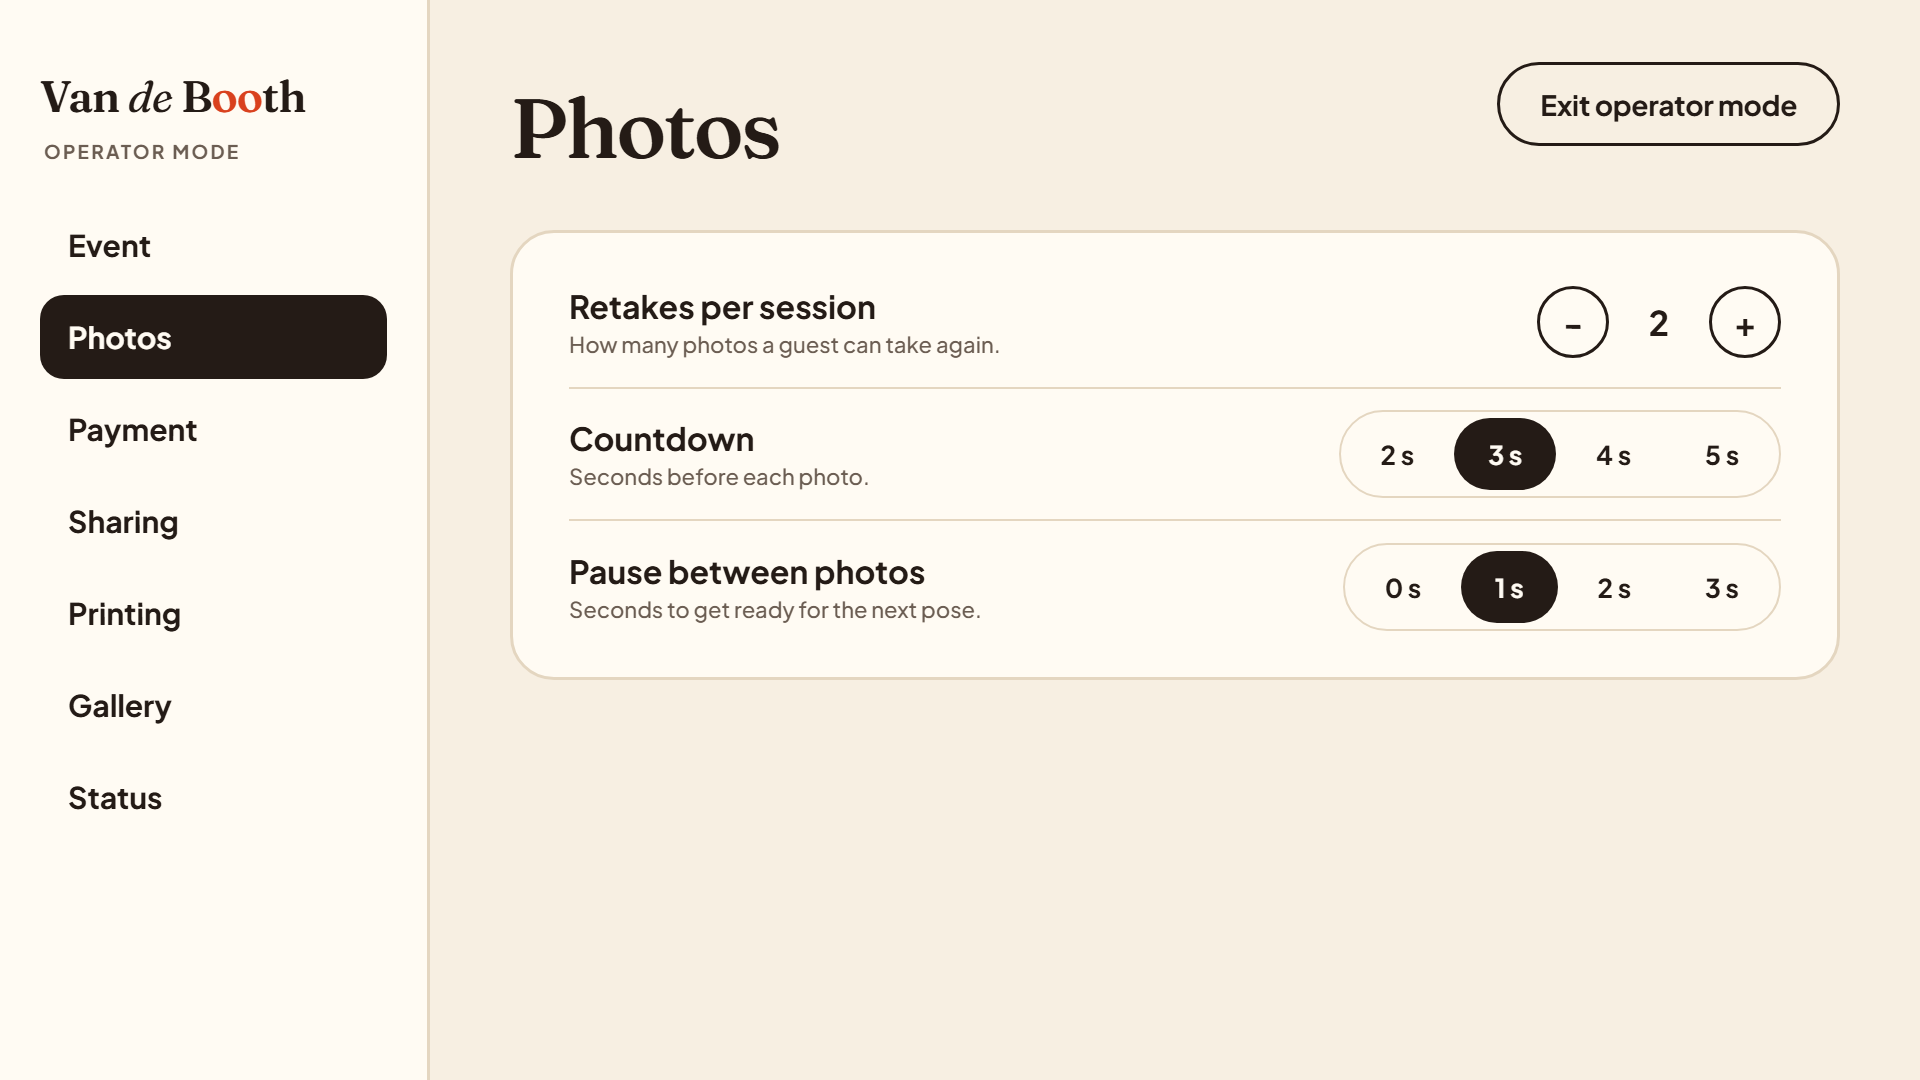
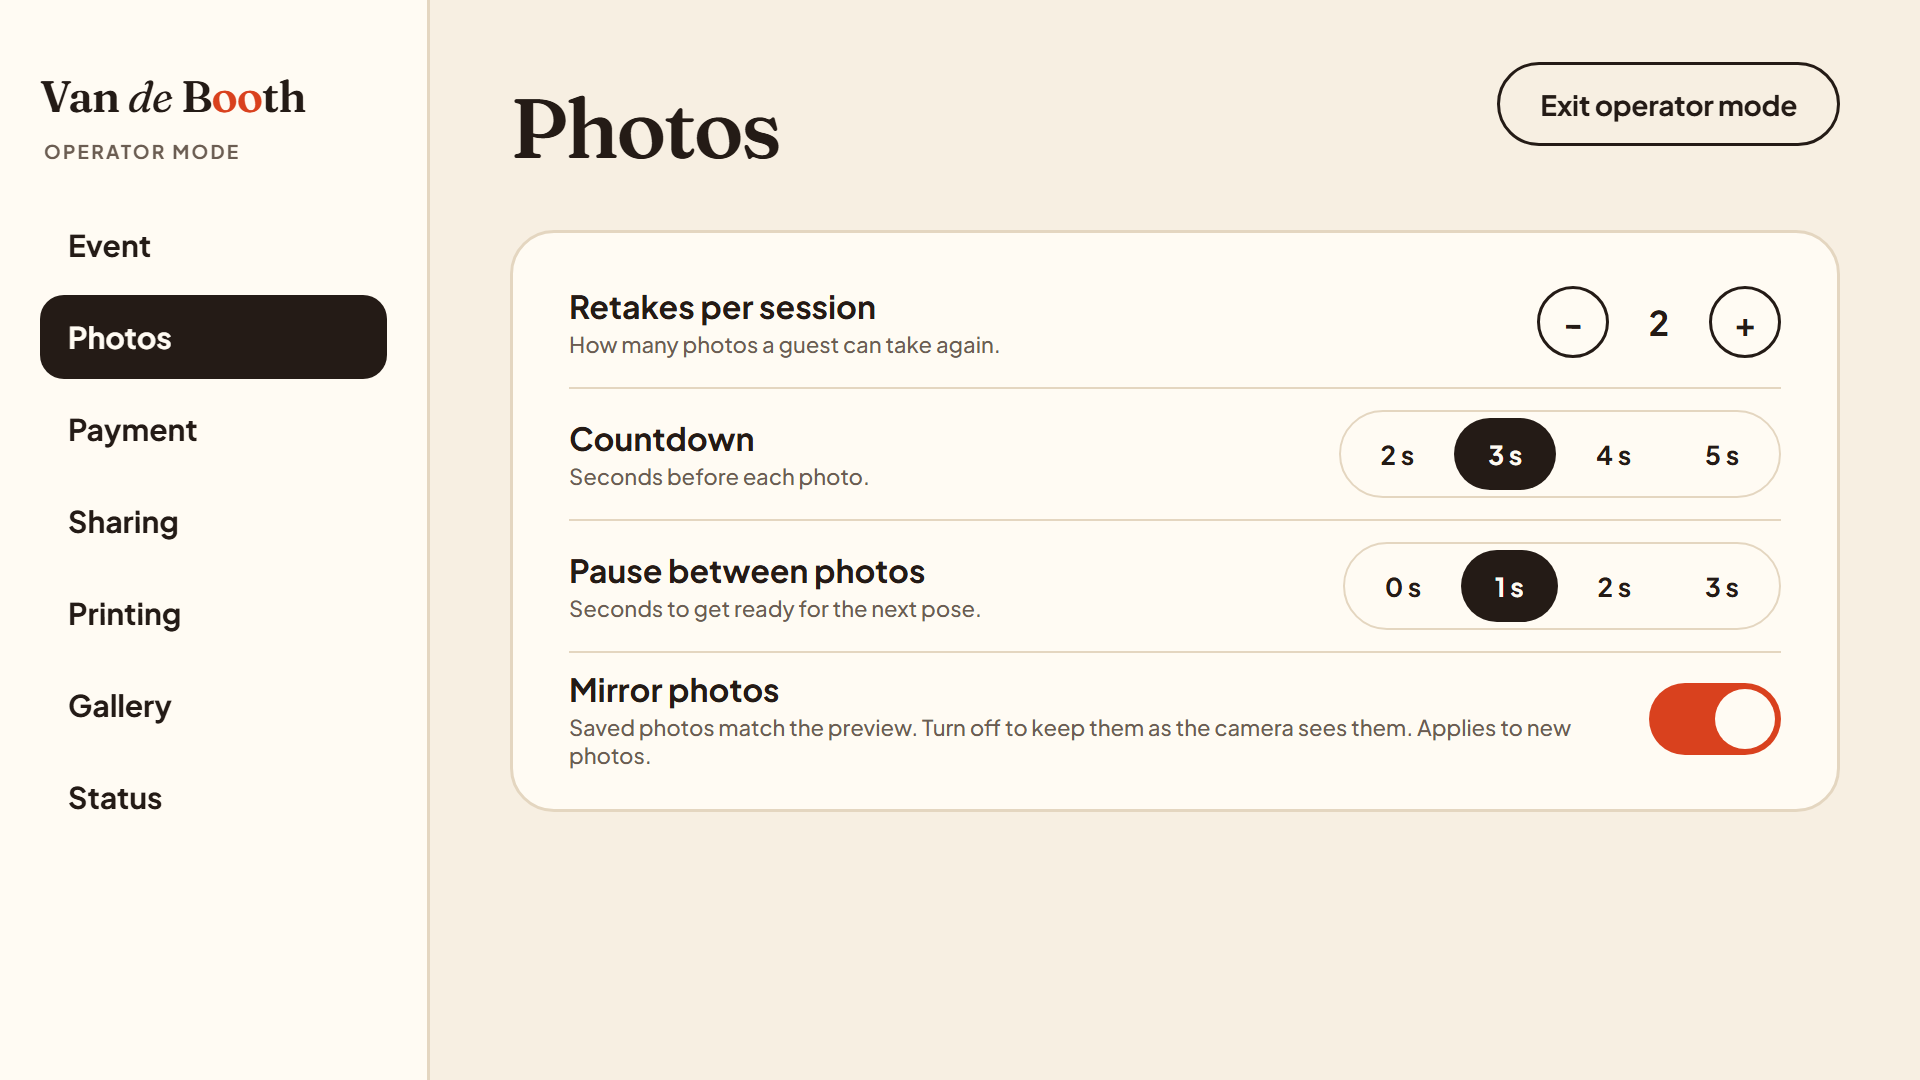
E2E: Mirror photos on/off menentukan arah foto baru; screenshot panel Photos

diff --git a/e2e/operator.spec.ts b/e2e/operator.spec.ts
@@ -1,7 +1,7 @@
 import { readFileSync } from 'node:fs';
 import { expect, test, type Page } from '@playwright/test';
 import { TEST_FEED } from './feed';
-import { expectScreen, injectEnv, settle, shot } from './helpers';
+import { expectScreen, injectEnv, settle, shot, waitForVideo } from './helpers';
 import { randomPin, startTestSidecar, type TestSidecar } from './sidecar';
 
 // Sidecar khusus dengan folder config baru: belum ada PIN (tidak ada PIN bawaan)
@@ -241,4 +241,82 @@ test('operator: "Layouts offered" membatasi kartu di Layout screen dan minimal s
   for (const id of ['vertical-3', 'horizontal-3', 'grid-4', 'grid-6']) await group.getByTestId(`offer-${id}`).click();
   await expect(group.locator('[aria-checked="true"]')).toHaveCount(6);
   await expect.poll(async () => (await (await api(page, 'GET', '/api/config')).json()).layoutsOffered.length).toBe(6);
+});
+
+/**
+ * Sisi matahari (putih krem) pada foto Review: dengan feed uji, preview dicermin menaruhnya di kiri,
+ * jadi foto yang dicermin juga di kiri, dan foto tanpa cermin di kanan.
+ */
+async function sunSide(page: Page): Promise<'left' | 'right'> {
+  return page.evaluate(async () => {
+    const img = document.querySelector('[data-testid="review-photo-1"] img') as HTMLImageElement;
+    await img.decode();
+    const bmp = { width: img.naturalWidth, height: img.naturalHeight };
+    const c = document.createElement('canvas');
+    c.width = bmp.width;
+    c.height = bmp.height;
+    const g = c.getContext('2d')!;
+    g.drawImage(img, 0, 0);
+    const bright = (fx: number) => g.getImageData(Math.round(bmp.width * fx), Math.round(bmp.height * 0.25), 1, 1).data[2];
+    return bright(0.13) > bright(0.87) ? 'left' : 'right';
+  });
+}
+
+/** Satu foto (Big Shot) lewat UI sungguhan, berhenti di Review. */
+async function shootBigShot(page: Page) {
+  await page.getByTestId('start').click();
+  await expectScreen(page, 'layout');
+  await page.getByTestId('layout-postcard-1').click();
+  await page.getByTestId('next').click();
+  await expectScreen(page, 'capture');
+  await waitForVideo(page);
+  await expectScreen(page, 'review');
+  await expect(page.locator('[data-testid="review-photo-1"] img')).toBeVisible();
+}
+
+async function toOperator(page: Page) {
+  await holdWordmark(page);
+  await typePin(page, PIN);
+  await expectScreen(page, 'operator');
+}
+
+test('operator: "Mirror photos" mengatur arah foto baru (preview tetap dicermin)', async ({ page }) => {
+  await injectEnv(page, sidecar);
+  await page.goto('/');
+  await expectScreen(page, 'attract');
+  await waitForVideo(page);
+
+  // Bawaan: aktif, foto sama dengan preview (matahari di kiri)
+  expect((await (await api(page, 'GET', '/api/config')).json()).mirrorPhotos).toBe(true);
+  await shootBigShot(page);
+  expect(await sunSide(page)).toBe('left');
+  await page.getByTestId('start-over').click();
+  await expectScreen(page, 'layout');
+  await page.keyboard.press('Escape');
+  await expectScreen(page, 'attract');
+
+  // Matikan: foto baru apa adanya dari kamera (matahari di kanan); preview tetap dicermin
+  await toOperator(page);
+  await page.getByTestId('menu-photos').click();
+  const toggle = page.getByTestId('mirror-toggle');
+  await expect(toggle).toHaveAttribute('aria-checked', 'true');
+  await toggle.click();
+  await expect(toggle).toHaveAttribute('aria-checked', 'false');
+  await expect.poll(async () => (await (await api(page, 'GET', '/api/config')).json()).mirrorPhotos).toBe(false);
+  await page.getByTestId('exit-operator').click();
+  await expectScreen(page, 'attract');
+  await expect(page.locator('video.mirrored')).toBeVisible();
+  await shootBigShot(page);
+  expect(await sunSide(page)).toBe('right');
+  await page.getByTestId('start-over').click();
+  await expectScreen(page, 'layout');
+  await page.keyboard.press('Escape');
+  await expectScreen(page, 'attract');
+
+  // Nyalakan lagi
+  await toOperator(page);
+  await page.getByTestId('menu-photos').click();
+  await toggle.click();
+  await expect(toggle).toHaveAttribute('aria-checked', 'true');
+  await expect.poll(async () => (await (await api(page, 'GET', '/api/config')).json()).mirrorPhotos).toBe(true);
 });
